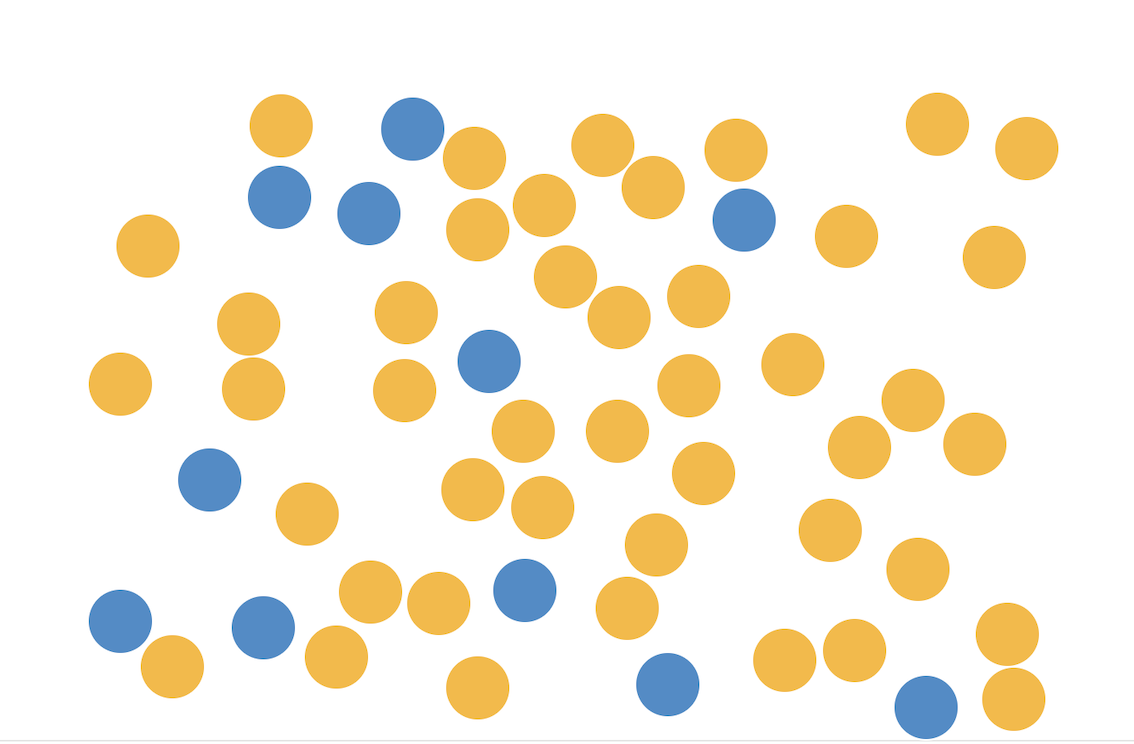
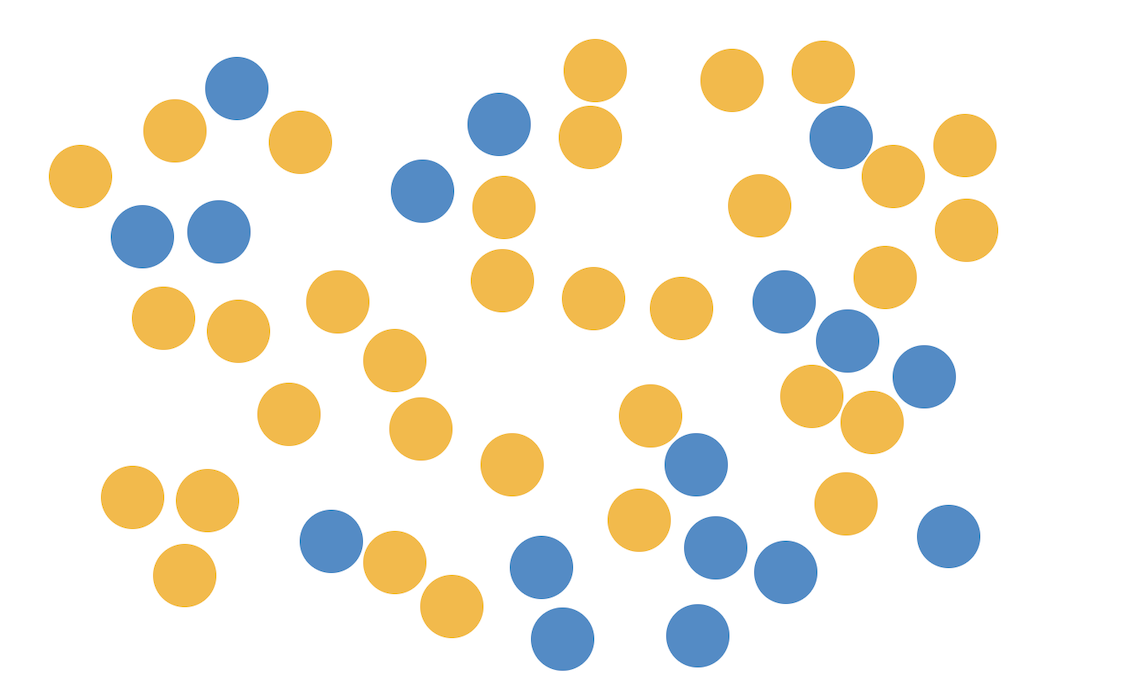
Updated example image and instructions

diff --git a/templates/instructions/Instructions.html b/templates/instructions/Instructions.html
@@ -20,9 +20,9 @@
 
         <div id = "Two" style = "display:none;">
 
-        <p>For example, here there are 11 BLUE circles and 44 YELLOW circles, so the correct answer is -33. 
+        <p>For example, here there are 17 BLUE circles and 33 YELLOW circles, so the correct answer is -16. 
 
-        You do not need to be precise to get the question correct. Your answer will be counted as correct if it is within +1 or -1 of the correct answer. Here, answering -32, -33, or -34 would be marked as a correct answer. 
+        You do not need to be precise to get the question correct. Your answer will be counted as correct if it is within +3 or -3 of the correct answer. Here, answering -13, -14, -15, -16, -17, -18, or -19 would be marked as a correct answer. 
 
         <center><img src = "/static/images/Example.png" width="749px" height="434px"></center>
         </p>
@@ -33,9 +33,9 @@
 
         <p>You will complete the study in a pair with another participant. You will either be <strong>player 1</strong> or <strong>player 2</strong>.</p>
 
-        <p>On each question, the correct answer for player 1 and 2 will be the same, but player 2's task will be more difficult. This is done by increasing the number of circles for player 2, even though the difference in blue and yellow circles remains the same.</p> 
+        <p>On each question, player 1 and player 2 will see the same image, so the correct answer will be the same for both of them.</p> 
 
-        <p>On the next page, you will see examples of player 1 questions and player 2 questions.</p>
+        <p>You will see example questions on the next page.</p>
 
         </div>      
 
